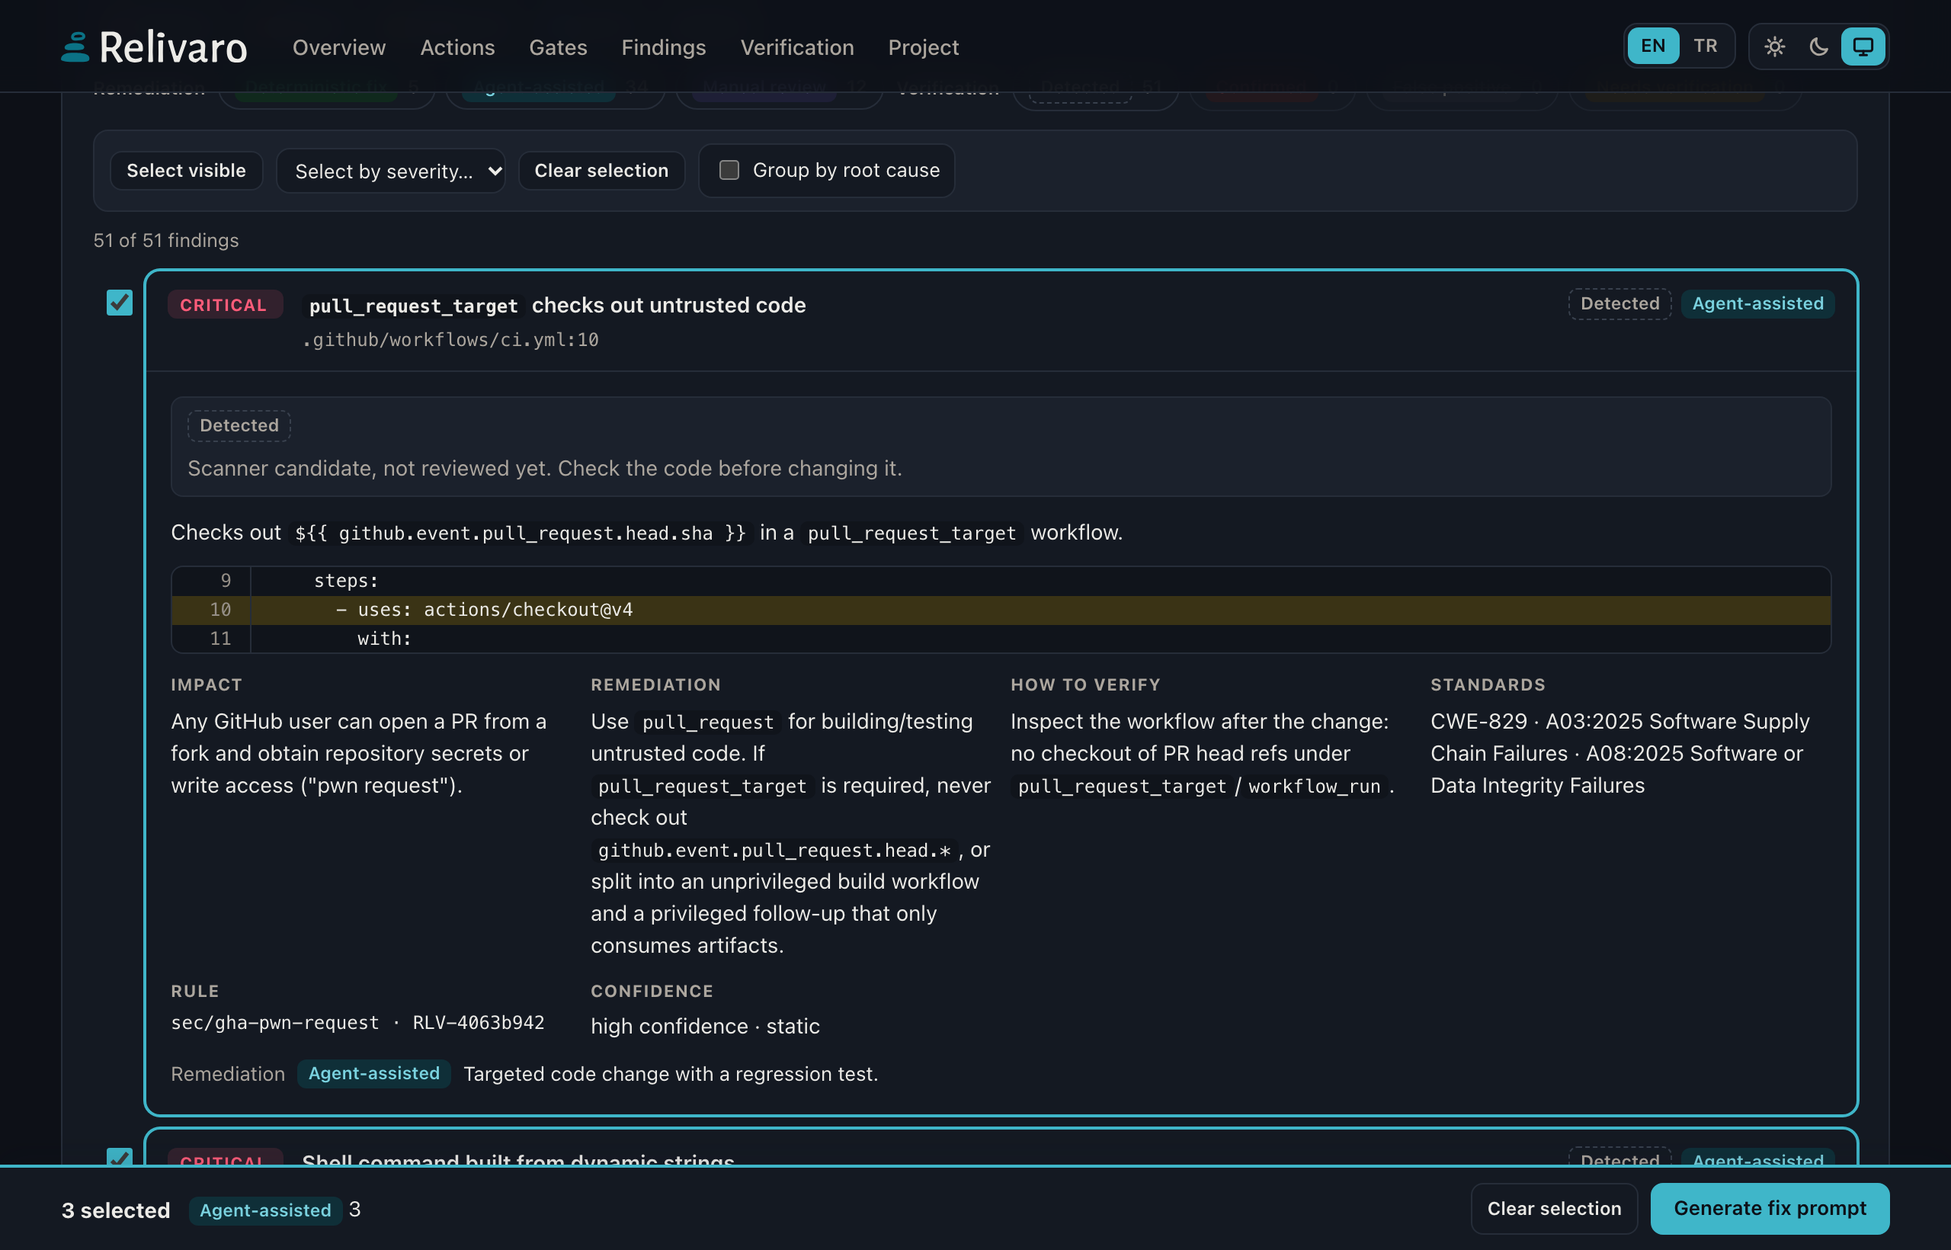
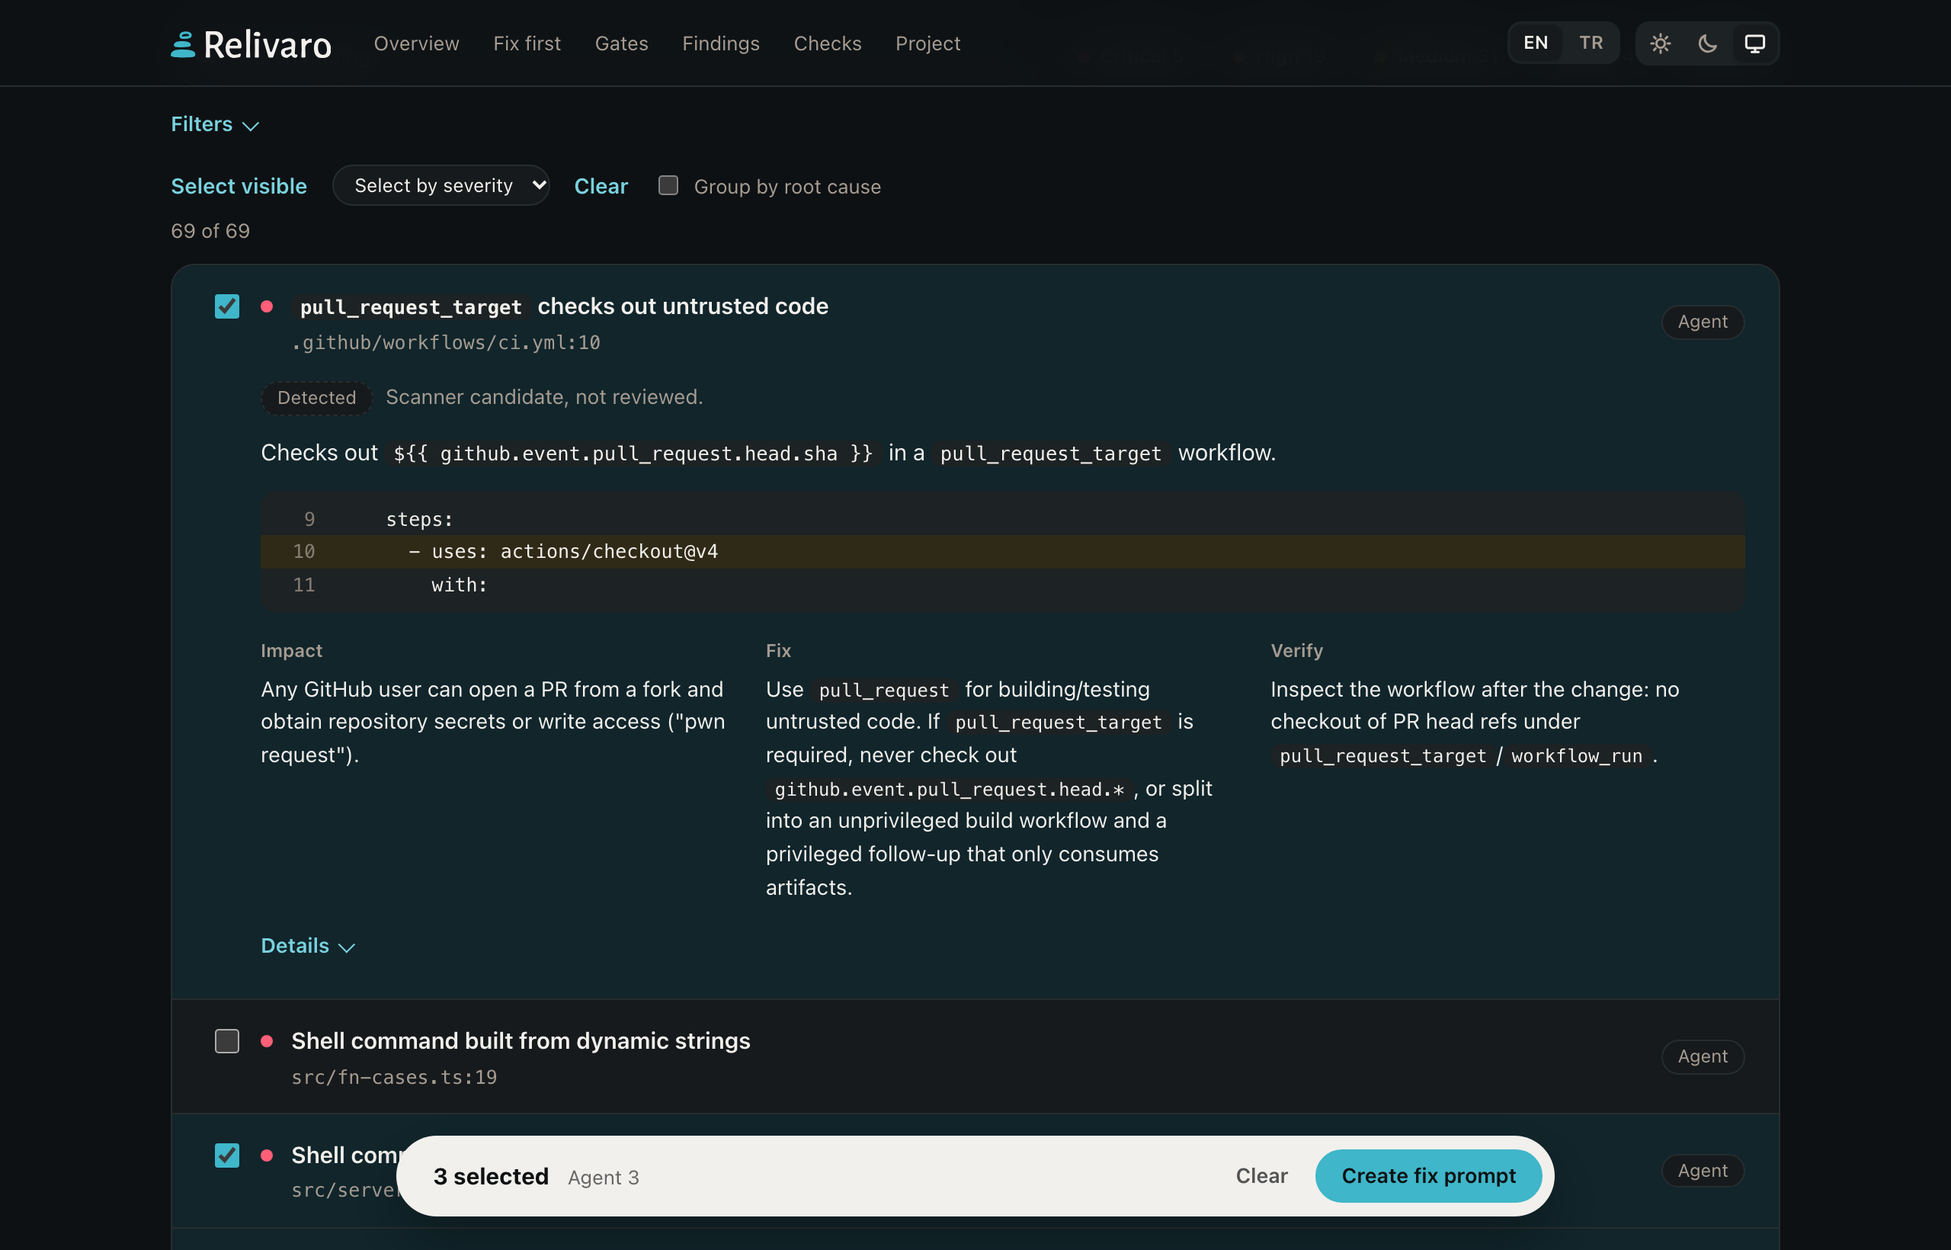
docs: refreshed README, report screenshots and social preview

diff --git a/README.md b/README.md
@@ -1,128 +1,45 @@
 <h1 align="center">
   <picture>
     <source media="(prefers-color-scheme: dark)" srcset="https://raw.githubusercontent.com/cihantopac/relivaro/main/assets/brand/primary-reversed.svg">
-    <img src="https://raw.githubusercontent.com/cihantopac/relivaro/main/assets/brand/primary-color.svg" alt="Relivaro" width="360">
+    <img src="https://raw.githubusercontent.com/cihantopac/relivaro/main/assets/brand/primary-color.svg" alt="Relivaro" width="320">
   </picture>
 </h1>
 
-<h3 align="center">Verify the code. Prove the quality. Ship with confidence.</h3>
+<p align="center"><strong>Verify the code. Ship with confidence.</strong></p>
 
 <p align="center">
-  Open-source CLI and Claude Code plugin that audits real codebases offline, shows the evidence behind every finding,<br>
-  hands fixes to verified fixers or your coding agent, and gates releases without hiding what it did not check.
+  Open-source code auditor for security, reliability and release readiness.<br>
+  Every finding comes with evidence. Fixes go to verified fixers or your coding agent.
 </p>
 
 <p align="center">
   <a href="https://www.npmjs.com/package/relivaro"><img alt="npm" src="https://img.shields.io/npm/v/relivaro?color=0b7285&label=npm"></a>
   <a href="https://github.com/cihantopac/relivaro/actions/workflows/ci.yml"><img alt="CI" src="https://github.com/cihantopac/relivaro/actions/workflows/ci.yml/badge.svg"></a>
-  <a href="https://github.com/cihantopac/relivaro/blob/main/LICENSE"><img alt="License: Apache-2.0" src="https://img.shields.io/badge/license-Apache--2.0-0b7285"></a>
-  <img alt="Node.js ≥ 22" src="https://img.shields.io/badge/node-%E2%89%A5%2022-121620">
-  <img alt="Linux, macOS, Windows" src="https://img.shields.io/badge/platforms-Linux%20%7C%20macOS%20%7C%20Windows-121620">
+  <a href="LICENSE"><img alt="License: Apache-2.0" src="https://img.shields.io/badge/license-Apache--2.0-0b7285"></a>
+  <img alt="Node.js ≥ 22" src="https://img.shields.io/badge/node-%E2%89%A5%2022-0b7285">
 </p>
 
 <p align="center">
   <picture>
     <source media="(prefers-color-scheme: dark)" srcset="https://raw.githubusercontent.com/cihantopac/relivaro/main/assets/screenshots/report-overview-dark.png">
-    <img src="https://raw.githubusercontent.com/cihantopac/relivaro/main/assets/screenshots/report-overview-light.png" alt="Relivaro HTML report: release readiness score, gate tally, key numbers and the action center" width="900">
+    <img src="https://raw.githubusercontent.com/cihantopac/relivaro/main/assets/screenshots/report-overview-light.png" alt="Relivaro report: the release verdict in one sentence, the next action and four key numbers" width="880">
   </picture>
-  <br><sub>Relivaro's release report for its own repository (build, tests, type check and lint executed; dependencies checked on OSV.dev). English / Türkçe · light / dark / system.</sub>
+  <br><sub>A real report, captured unedited: Relivaro on its own repository, with build, tests, type check and lint executed. One offline HTML file.</sub>
 </p>
-
-## How it works
-
-<p align="center">
-  <picture>
-    <source media="(prefers-color-scheme: dark)" srcset="https://raw.githubusercontent.com/cihantopac/relivaro/main/assets/diagrams/workflow-dark.svg">
-    <img src="https://raw.githubusercontent.com/cihantopac/relivaro/main/assets/diagrams/workflow-light.svg" alt="Workflow: Audit, Evidence, Fix, Verify, Release" width="900">
-  </picture>
-</p>
-
-- **Audit** — 93 rules on tree-sitter syntax trees with taint tracking, plus project intelligence: stacks, monorepo
-  units, data stores, CI/CD, routes and environment variables. Offline and read-only.
-- **Evidence** — every finding carries `file:line`, a redacted snippet, facts, confidence, impact and CWE/OWASP mapping.
-- **Fix** — 15 deterministic fixers produce a reviewable diff; everything else becomes a fix prompt for your coding agent.
-- **Verify** — a fix must remove its findings, add none and keep your tests green, in an isolated copy, with rollback.
-- **Release** — up to 18 gates, each marked *executed*, *measured*, *static analysis* or ***not run***. Unverified is
-  never a silent pass.
-
-## From findings to fixes
-
-<table>
-<tr>
-<td width="50%" valign="top">
-
-**Start with what matters.** The action center splits open findings by how they get fixed and puts the most severe
-root causes first:
-
-- **Deterministic fix** — a Relivaro fixer produces a concrete patch.
-- **Agent-assisted** — a coding agent investigates, changes the code and adds a regression test.
-- **Manual review** — needs runtime evidence, an operational decision or approval first.
-
-</td>
-<td width="50%" valign="top">
-
-<picture>
-  <source media="(prefers-color-scheme: dark)" srcset="https://raw.githubusercontent.com/cihantopac/relivaro/main/assets/screenshots/report-actions-dark.png">
-  <img alt="Action center: findings by remediation path and the three most severe root causes" src="https://raw.githubusercontent.com/cihantopac/relivaro/main/assets/screenshots/report-actions-light.png">
-</picture>
-
-</td>
-</tr>
-<tr>
-<td width="50%" valign="top">
-
-<picture>
-  <source media="(prefers-color-scheme: dark)" srcset="https://raw.githubusercontent.com/cihantopac/relivaro/main/assets/screenshots/report-prompt-dark.png">
-  <img alt="Editable fix prompt with copy and Markdown download" src="https://raw.githubusercontent.com/cihantopac/relivaro/main/assets/screenshots/report-prompt-light.png">
-</picture>
-
-</td>
-<td width="50%" valign="top">
-
-**Hand it to your coding agent.** Select findings and press **Generate fix prompt**: an editable brief for Claude
-Code, Codex or any coding agent with the run id, stable finding ids, locations, evidence and permission boundaries.
-The agent re-checks each finding against the current code (`relivaro recheck`), rejects false positives and asks
-before changing anything.
-
-The report is one self-contained file: no network, no CDN, a strict CSP, secrets redacted.
-
-</td>
-</tr>
-<tr>
-<td width="50%" valign="top">
-
-<picture>
-  <source media="(prefers-color-scheme: dark)" srcset="https://raw.githubusercontent.com/cihantopac/relivaro/main/assets/screenshots/report-findings-dark.png">
-  <img alt="Findings explorer with selection, evidence snippet, verification and remediation badges" src="https://raw.githubusercontent.com/cihantopac/relivaro/main/assets/screenshots/report-findings-light.png">
-</picture>
-
-</td>
-<td width="50%" valign="top">
-
-**Every claim is checkable.** Findings show the code that triggered them with the line highlighted, how to verify the
-fix, and whether someone reviewed them: *detected*, *confirmed*, *false positive*, *needs verification* or *accepted risk*
-(`relivaro review add`).
-
-<img alt="The report on a phone, dark theme, in Turkish" src="https://raw.githubusercontent.com/cihantopac/relivaro/main/assets/screenshots/report-mobile-tr-dark.png" width="200">
-
-</td>
-</tr>
-</table>
 
 ## Quick start
 
-**Claude Code plugin** — no npm install needed:
+**Claude Code plugin**, no npm install needed:
 
 ```text
 /plugin marketplace add cihantopac/relivaro
 /plugin install relivaro@relivaro
 ```
 
-Then run `/relivaro` in your project, or a single step: `/relivaro:audit`, `:security`, `:performance`,
-`:reliability`, `:test`, `:optimize`, `:release`. Claude checks significant findings in your code and asks before
-executing project commands, going online or editing anything. [Plugin guide](docs/PLUGIN.md)
+Then run `/relivaro` in your project. Claude checks significant findings in the code and asks before running project
+commands, going online or editing anything. [Plugin guide](docs/PLUGIN.md)
 
-**CLI** — requires Node.js 22+, no runtime dependencies, no install scripts:
+**CLI**, Node.js 22+, no runtime dependencies:
 
 ```bash
 npm install -g relivaro
@@ -136,49 +53,99 @@ relivaro audit . --open
 relivaro release . --allow-exec --online
 ```
 
-```bash
-relivaro fix apply latest --yes --verify "npm test" --allow-exec
-```
+Reports land in `.relivaro/runs/<run-id>/` as HTML, Markdown, JSON and optional SARIF. All commands:
+[docs/CLI.md](docs/CLI.md).
 
-Reports land in `.relivaro/runs/<run-id>/` (`report.html`, `.md`, `.json`, optional `.sarif`). No install:
-`npx relivaro audit .`. All commands: [docs/CLI.md](docs/CLI.md).
+## How it works
 
-**Safe by default.** Read-only and offline. Project code runs only with `--allow-exec`, the network is used only with
-`--online`, and files change only through `fix apply --yes` — with backups and hash-guarded rollback.
+<picture>
+  <source media="(prefers-color-scheme: dark)" srcset="https://raw.githubusercontent.com/cihantopac/relivaro/main/assets/diagrams/workflow-dark.svg">
+  <img alt="Workflow: Audit, Evidence, Fix, Verify, Release" src="https://raw.githubusercontent.com/cihantopac/relivaro/main/assets/diagrams/workflow-light.svg" width="880">
+</picture>
 
-**Hosted scanning of untrusted code.** `--lockdown` (or `RELIVARO_LOCKDOWN=1`) turns those opt-ins into usage errors
-(exit 2): `--allow-exec`, `--online`, `--open`, `fix apply`/`rollback`, `baseline`, `init`, `load`, `bench`,
-`review add`, and writing reports into the audited directory (use `--workspace <dir>` outside it, or `--no-write`). It
-also ignores the repository's `relivaro.config.json` and inline `relivaro-ignore`/`relivaro-accept` comments, applies
-`.gitignore` to nothing and never starts git, so no child process is spawned and no socket is opened.
-`--ignore-repo-config` alone uses only defaults or an explicit `--config`.
+| | |
+| --- | --- |
+| **Audit** | 93 rules on syntax trees with taint tracking, plus project intelligence: stacks, units, data stores, CI/CD, routes. |
+| **Evidence** | `file:line`, the code, impact and CWE/OWASP mapping for every finding. Secrets redacted. |
+| **Fix** | 15 deterministic fixers write a reviewable diff. Everything else becomes a prompt for your coding agent. |
+| **Verify** | A fix must remove its findings, add none and keep your tests green, or it is rolled back. |
+| **Release** | Up to 18 gates, each marked *executed*, *measured*, *static analysis* or *not run*. Unverified is never a pass. |
 
-**Programmatic use.** `npm install relivaro`, then
-`import { runAudit, toSarif, compareRuns, assessRelease } from 'relivaro'` (ESM, typed). The run record follows
-[schemas/run.schema.json](schemas/run.schema.json), and `--json --compact` is pinned by
+## From findings to fixes
+
+<table>
+<tr>
+<td width="50%" valign="top">
+<picture>
+  <source media="(prefers-color-scheme: dark)" srcset="https://raw.githubusercontent.com/cihantopac/relivaro/main/assets/screenshots/report-actions-dark.png">
+  <img alt="Fix first: the three most severe root causes and a button that turns them into a fix prompt" src="https://raw.githubusercontent.com/cihantopac/relivaro/main/assets/screenshots/report-actions-light.png">
+</picture>
+<p><b>Start with what matters.</b> The most severe root causes come first, each with its location and how it gets fixed.</p>
+</td>
+<td width="50%" valign="top">
+<picture>
+  <source media="(prefers-color-scheme: dark)" srcset="https://raw.githubusercontent.com/cihantopac/relivaro/main/assets/screenshots/report-prompt-dark.png">
+  <img alt="Fix prompt sheet: selected findings, what the agent will do, copy and Markdown download" src="https://raw.githubusercontent.com/cihantopac/relivaro/main/assets/screenshots/report-prompt-light.png">
+</picture>
+<p><b>Hand it to your agent.</b> One click builds a prompt for Claude Code, Codex or any agent. The agent re-checks each finding, rejects false positives and asks before changing code.</p>
+</td>
+</tr>
+<tr>
+<td width="50%" valign="top">
+<picture>
+  <source media="(prefers-color-scheme: dark)" srcset="https://raw.githubusercontent.com/cihantopac/relivaro/main/assets/screenshots/report-findings-dark.png">
+  <img alt="Findings list with one finding open: the code with the reported line highlighted, impact, fix and how to verify" src="https://raw.githubusercontent.com/cihantopac/relivaro/main/assets/screenshots/report-findings-light.png">
+</picture>
+<p><b>Every claim is checkable.</b> The code behind each finding, its impact, the fix and how to verify it. Review verdicts show who checked it.</p>
+</td>
+<td width="50%" valign="top" align="center">
+<img alt="The report on a phone, dark theme, in Turkish" src="https://raw.githubusercontent.com/cihantopac/relivaro/main/assets/screenshots/report-mobile-tr-dark.png" width="230">
+<p><b>English and Türkçe, light and dark, on any screen.</b></p>
+</td>
+</tr>
+</table>
+
+## Safe by default
+
+- **Read-only and offline.** Project code runs only with `--allow-exec`; the network is used only with `--online`.
+- **Changes are reversible.** Files change only through `fix apply --yes`, with backups and hash-guarded rollback.
+- **The report is inert.** One self-contained file: no network, no CDN, a strict CSP, secrets redacted.
+
+<details>
+<summary><b>Scanning untrusted code</b></summary>
+
+`--lockdown` (or `RELIVARO_LOCKDOWN=1`) turns every opt-in into a usage error (exit 2): `--allow-exec`, `--online`,
+`--open`, `fix apply`/`rollback`, `baseline`, `init`, `load`, `bench`, `review add`, and writing reports into the
+audited directory (use `--workspace <dir>` or `--no-write`). It also ignores the repository's `relivaro.config.json`
+and inline `relivaro-ignore`/`relivaro-accept` comments, applies `.gitignore` to nothing and never starts git: no child
+process, no socket. `--ignore-repo-config` alone uses only defaults or an explicit `--config`.
+
+</details>
+
+<details>
+<summary><b>Programmatic use</b></summary>
+
+`npm install relivaro`, then `import { runAudit, toSarif, compareRuns, assessRelease } from 'relivaro'` (ESM, typed).
+The run record follows [schemas/run.schema.json](schemas/run.schema.json), and `--json --compact` is pinned by
 [tests/fixtures/contract/compact.json](tests/fixtures/contract/compact.json). Everything else is internal.
 
-## Evidence
+</details>
 
-- **338 tests** (unit, integration, security, end-to-end) on Linux, macOS and Windows × Node 22 and 24 in CI.
-- **Detection corpus:** 11 fixture projects, 185 expected findings, **precision and recall 100%**, enforced in CI.
-  A controlled corpus — real code will produce false positives and misses.
-- **Real repositories:** validated read-only on 5 production codebases; every significant finding checked by hand
+## Evidence, not claims
+
+- **Detection corpus:** 11 fixture projects, 185 expected findings, precision and recall 100%, enforced in CI. A
+  controlled corpus: real code will produce false positives and misses.
+- **Real repositories:** validated read-only on 5 production codebases, every significant finding checked by hand
   ([validation](docs/VALIDATION.md)).
-- **Speed:** a 3,060-file repository in about 1.5 s; a 241k-line monorepo in about 3 s on an Apple M4
-  ([benchmarks](docs/BENCHMARKS.md)).
-- **Report safety:** tests inject `</script>` payloads through analysed source; the report stays inert and makes no
-  network requests.
+- **Tested** with unit, integration, security and end-to-end suites on Linux, macOS and Windows, Node 22 and 24.
+- **Fast:** a 3,060-file repository in about 1.5 s, a 241k-line monorepo in about 3 s ([benchmarks](docs/BENCHMARKS.md)).
 
-Source-level rules cover **JavaScript, TypeScript (JSX/TSX), PHP and Python**; Go, Ruby, Java/Kotlin, Swift,
-Dart/Flutter and Rust projects get project intelligence, dependency, configuration, CI/CD and secret analysis.
-[Rule reference](docs/RULES.md)
+Source rules cover **JavaScript, TypeScript, PHP and Python**. Go, Ruby, Java/Kotlin, Swift, Dart and Rust projects
+get project intelligence, dependency, configuration, CI/CD and secret analysis. [Rule reference](docs/RULES.md)
 
-## Limitations
-
-Taint tracking is intra-procedural, static performance findings are suspicions until measured, and Relivaro is not a
-DAST tool or fuzzer. `--allow-exec` uses process controls, not a sandbox. Passing Relivaro does not mean software is
-secure or bug-free. Details: [security model](docs/SECURITY_MODEL.md).
+**Limits.** Taint tracking is intra-procedural, static performance findings are suspicions until measured, and
+Relivaro is not a DAST tool or fuzzer. `--allow-exec` uses process controls, not a sandbox. Passing Relivaro does not
+mean software is secure or bug-free. [Security model](docs/SECURITY_MODEL.md)
 
 ## Documentation
 
@@ -186,21 +153,16 @@ secure or bug-free. Details: [security model](docs/SECURITY_MODEL.md).
 [Plugin](docs/PLUGIN.md) · [Security model](docs/SECURITY_MODEL.md) · [Architecture](docs/ARCHITECTURE.md) ·
 [Release readiness](docs/RELEASE_READINESS.md) · [Changelog](CHANGELOG.md)
 
-## Product family
+## Related tools
 
-Independent open-source tools by the same author. Each works on its own.
+Independent open-source tools by the same author:
 
-| | |
-| --- | --- |
-| [**Markilo**](https://github.com/cihantopac/markilo) | Brand identity and vector design for Claude Code |
-| [**Searvex**](https://github.com/cihantopac/searvex) | SEO, GEO and search intelligence with sourced audits |
-| [**Jourilo**](https://github.com/cihantopac/jourilo) | UX, user journeys and conversion engineering in a real browser |
-| **Relivaro** | Software quality, security and release readiness |
-
-The Relivaro logo and icons ([`assets/brand/`](assets/brand/)) were designed with
-[Markilo](https://github.com/cihantopac/markilo).
+- [**Searvex**](https://github.com/cihantopac/searvex): SEO and AI-search auditing with sourced findings.
+- [**Jourilo**](https://github.com/cihantopac/jourilo): UX and conversion engineering in real browser journeys.
+- [**Markilo**](https://github.com/cihantopac/markilo): brand identity and vector design for Claude Code. It made the
+  Relivaro identity.
 
 ## License
 
-[Apache-2.0](LICENSE). Bundled tree-sitter runtime and grammars are MIT-licensed; see
+[Apache-2.0](LICENSE). The bundled tree-sitter runtime and grammars are MIT-licensed; see
 [THIRD_PARTY_NOTICES.md](THIRD_PARTY_NOTICES.md).

diff --git a/CHANGELOG.md b/CHANGELOG.md
@@ -3,6 +3,26 @@
 All notable changes to Relivaro are documented here. The format follows [Keep a Changelog](https://keepachangelog.com)
 and the project uses [Semantic Versioning](https://semver.org).
 
+## [Unreleased]
+
+### Changed
+
+- **HTML report redesign.** The report reads like a product page: one verdict sentence with a matching action
+  (*Fix these first* selects the findings behind the blocking gates; without such findings it points to the gates), a
+  band of four numbers, *Fix first* rows, the run flow on one line, a neutral breakdown, grouped gates (passed and not
+  applicable collapsed), quieter finding rows and a fix-prompt sheet that shows the selected findings first and keeps
+  the editable text one click away. Long explanations moved into disclosures; headings and labels are shorter in
+  English and Turkish. Colour follows a 60-30-10 balance on the Relivaro palette: teal only for actions, focus and
+  selection, severity and status as small dots and glyphs. The prompt text, the payload and the security model (CSP,
+  `textContent` only, three scripts) are unchanged.
+- README rewritten with new screenshots, a new workflow diagram and a new social preview image.
+
+### Added
+
+- `scripts/report-states.mjs` renders reports across widths, themes and languages and fails on page errors,
+  horizontal overflow, untranslated keys or lost selection state; `scripts/social-preview.mjs` renders the social
+  preview images from a real report (both development only).
+
 ## [1.6.0] — 2026-11-12
 
 New rule families from the Frameva field reports (b-03 safe-fetch, b-04 saga, b-05 artifact ingestion, b-08 health
